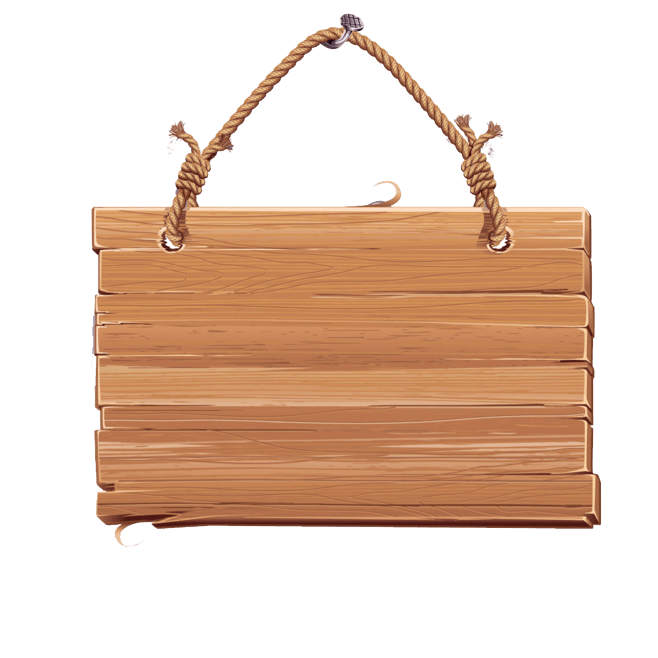
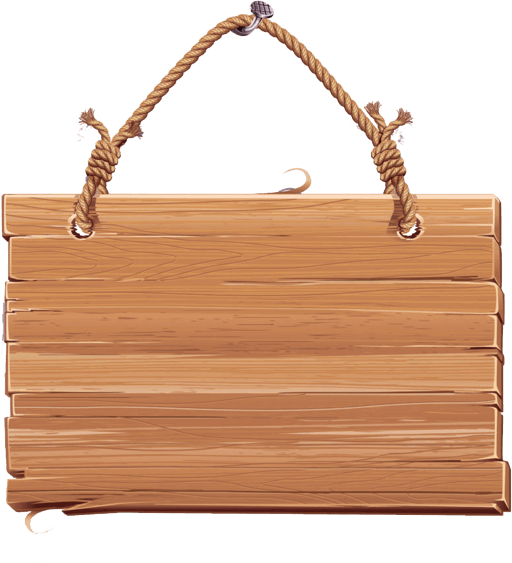
Trim image, and create "animatewood" animation

diff --git a/src/components/Login/login.scss b/src/components/Login/login.scss
@@ -16,18 +16,19 @@
     justify-content: center;
     align-items: flex-end;
 
-    width: 680px;
-    height: 580px;
+    width: 490px;
+    height: 515px;
 
     background-image: url(../../assets/images/wood.png);
     background-position: top center;
     background-size: cover;
+
+    animation: animatewood .5s linear;
   }
   &__form {
-    width: 420px;
+    width: 400px;
 
-    padding-left: 20px;
-    margin-bottom: 75px;
+    margin-bottom: 70px;
 
     text-align: center;
     &-item {
@@ -37,10 +38,10 @@
       margin-bottom: 20px;
     }
     &-input {
-      padding: 15px;
+      padding: 12px;
 
-      font-size: 25px;
-      line-height: 25px;
+      font-size: 20px;
+      line-height: 20px;
       color: $brown;
 
       border: 2px solid $light-brown;
@@ -77,7 +78,7 @@
   &__button {
     width: 100%;
 
-    padding: 15px 20px;
+    padding: 12px;
 
     font-family: $gloria-font;
     text-transform: uppercase;

diff --git a/src/assets/styles/_vars.scss b/src/assets/styles/_vars.scss
@@ -26,3 +26,25 @@ $light-brown: #b8764b;
 @mixin gradient($deg, $from, $to) {
   background-image: linear-gradient($deg, $from, $to);
 }
+
+@keyframes animatewood {
+  0% {
+    transform: rotate(-4deg);
+  }
+
+  25% {
+    transform: rotate(3deg);
+  }
+
+  50% {
+    transform: rotate(-2deg);
+  }
+
+  75% {
+    transform: rotate(-1deg);
+  }
+
+  100% {
+    transform: rotate(0deg);
+  }
+}
